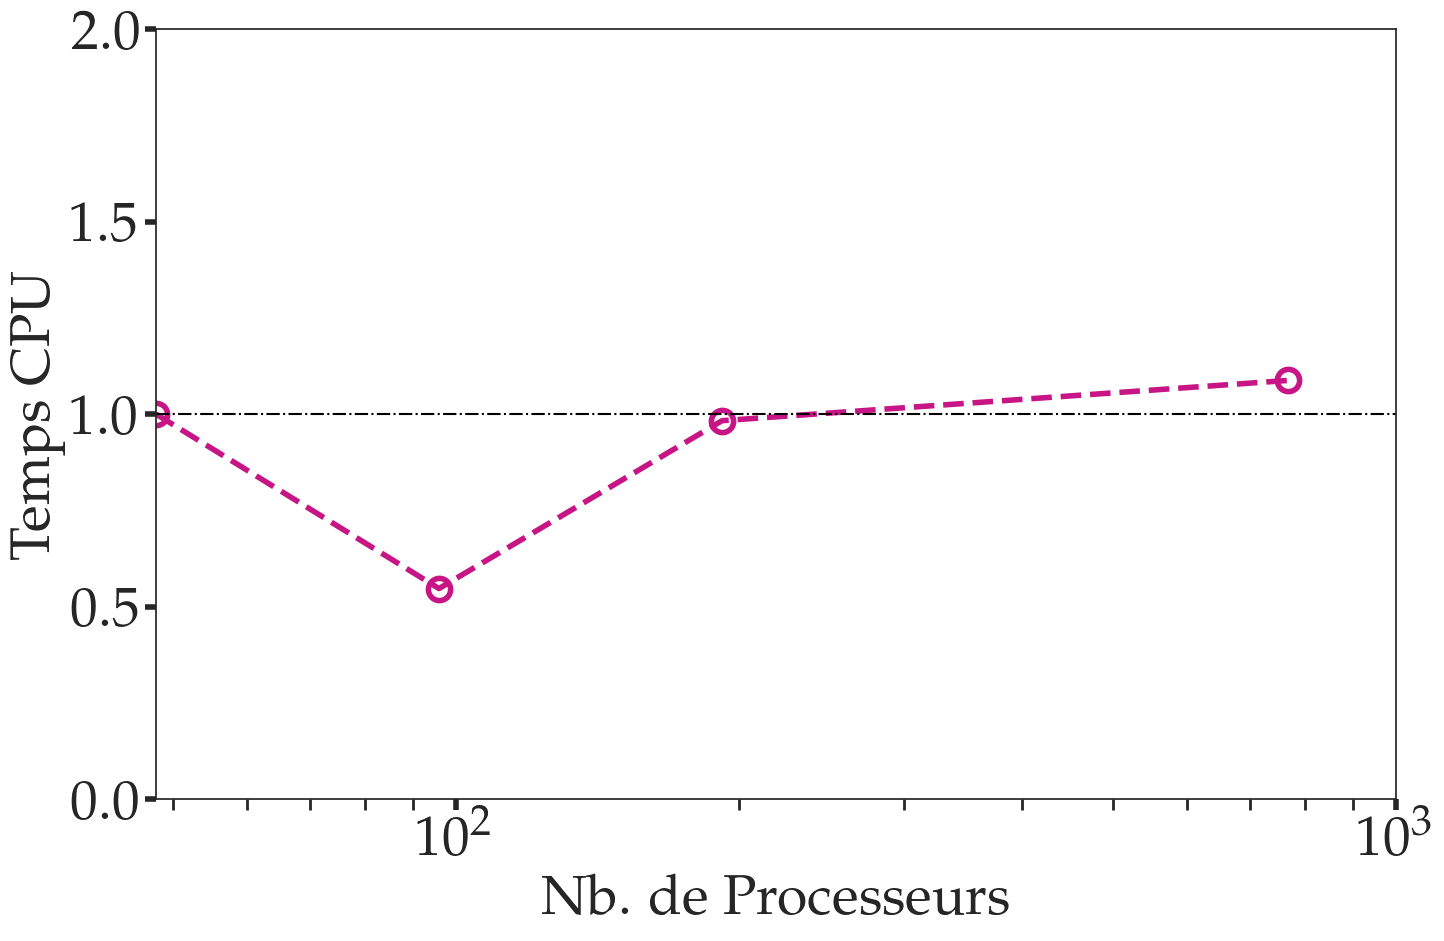
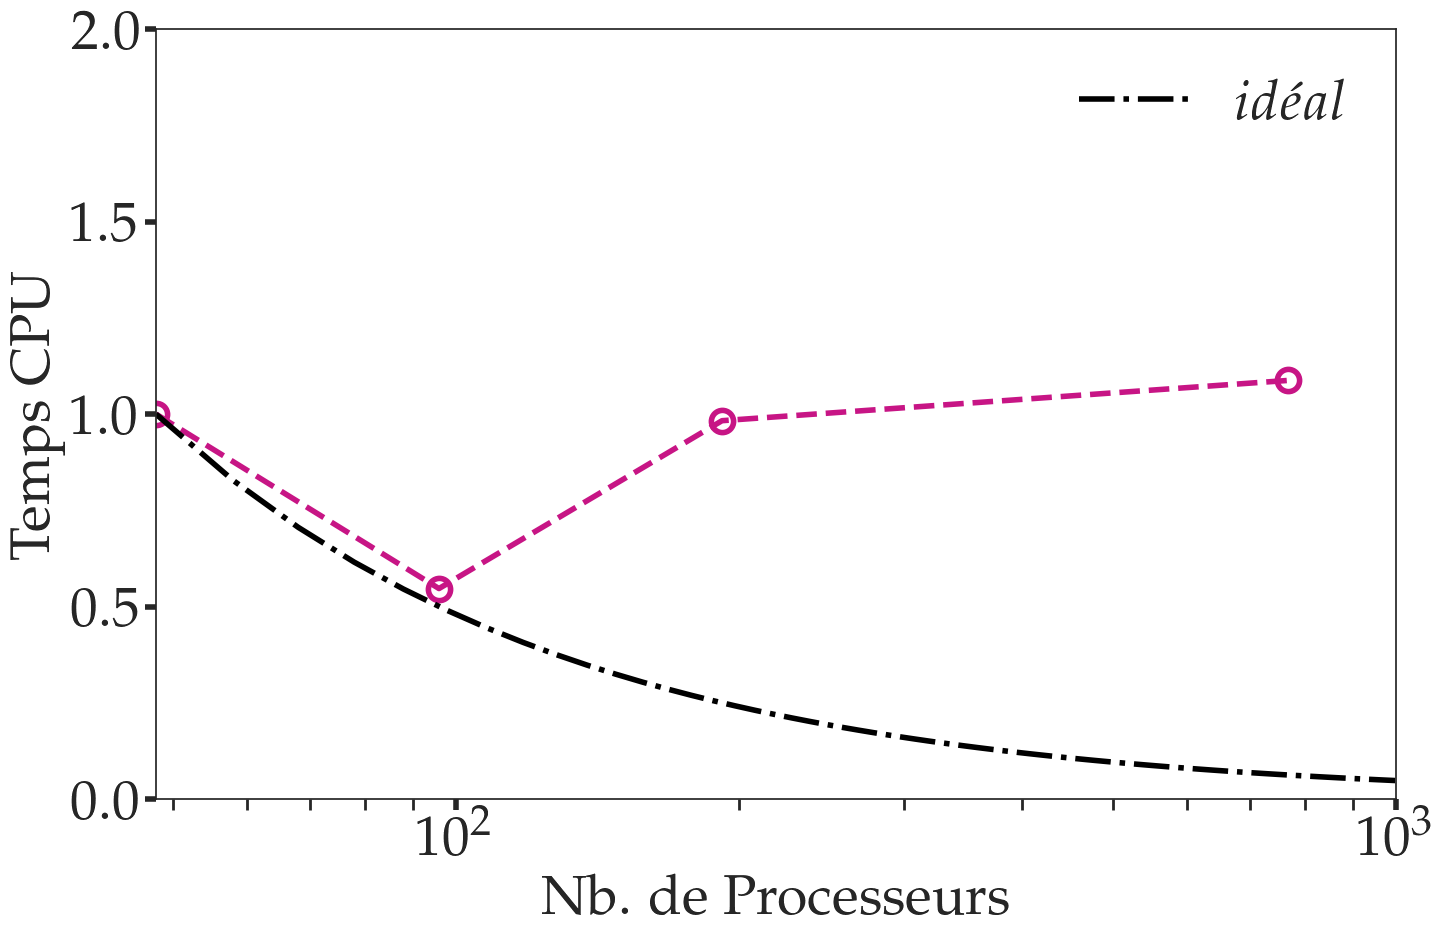
update plot

diff --git a/userScalability/occigen.py b/userScalability/occigen.py
@@ -57,8 +57,12 @@ def read_cases():
 #        ax2.plot(n_procs[i],eff,marker='o')
     
     ax1.plot(n_procs,Sp, linestyle='--', linewidth=4, markersize=16, marker='o', markerfacecolor='none', color='mediumvioletred', markeredgewidth=4)
+    x1=np.arange(48,1000,10)
+    ax1.plot(x1,x1/48.0,linestyle='-.', linewidth=4, color='black', label=r'$id\'eal$')
     ax1.set_xscale('log')
     ax2.plot(n_procs,E, linestyle='--', linewidth=4, markersize=16, marker='o', markerfacecolor='none', color='mediumvioletred', markeredgewidth=4)
+    x2=np.arange(48,1000,10)
+    ax2.plot(x2,np.full(x2.shape,1),linestyle='-.', linewidth=4, color='black', label=r'$id\'eal$')
     ax2.set_xscale('log')
     
     
@@ -113,15 +117,20 @@ def read_cases():
                             color='red'))
 
     ax3.plot(n_procs,1./Sp, linestyle='--', linewidth=4, markersize=16, marker='o', markerfacecolor='none', color='mediumvioletred', markeredgewidth=4)
+    x3=np.arange(48,1000,10)
+    ax3.plot(x3,48.0/x3,linestyle='-.', linewidth=4, color='black', label=r'$id\'eal$')
     ax3.set_xscale('log')
     ax3.set_xlabel('Nb. de Processeurs')
     ax3.set_ylabel('Temps CPU')
     ax3.set_xlim(0,1000)
     ax3.set_ylim(0,2)
-    ax3.axhline(y=1.0, color='black', linestyle='-.')
+    #ax3.axhline(y=1.0, color='black', linestyle='-.')
     ax3.tick_params(axis='both', which='major', direction='out', length=8, width=4)
     ax3.tick_params(axis='x', which='minor', direction='out', length=8, width=2)
 
+    ax1.legend()
+    ax2.legend()
+    ax3.legend()
     fig0.savefig("cpuTime.png", bbox_inches='tight')
     fig1.savefig("Sp.png", bbox_inches='tight')
     fig2.savefig("E.png", bbox_inches='tight')
